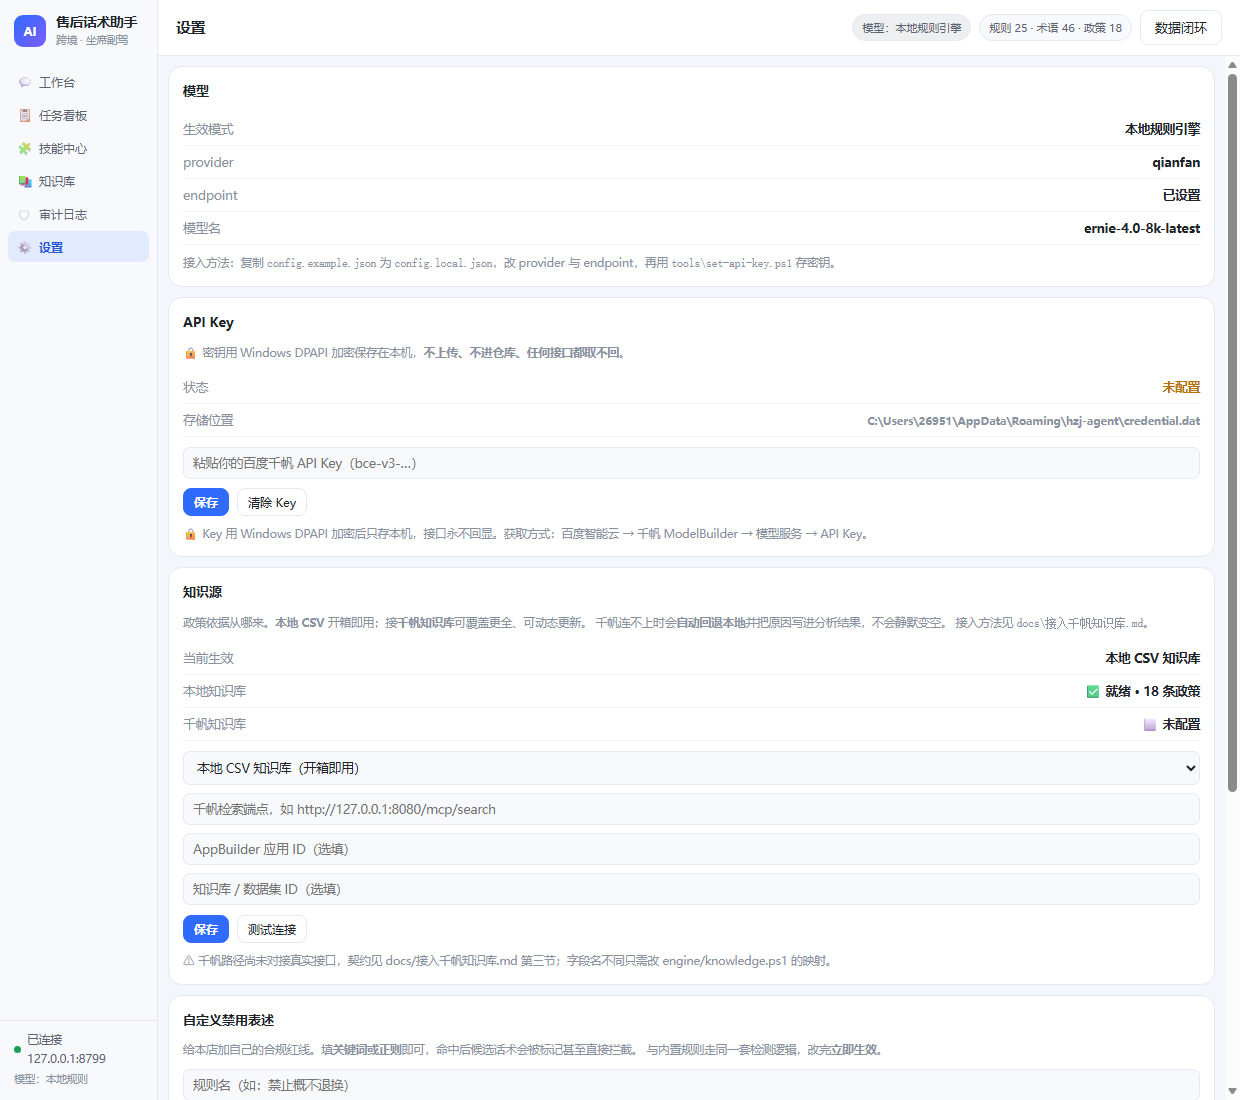
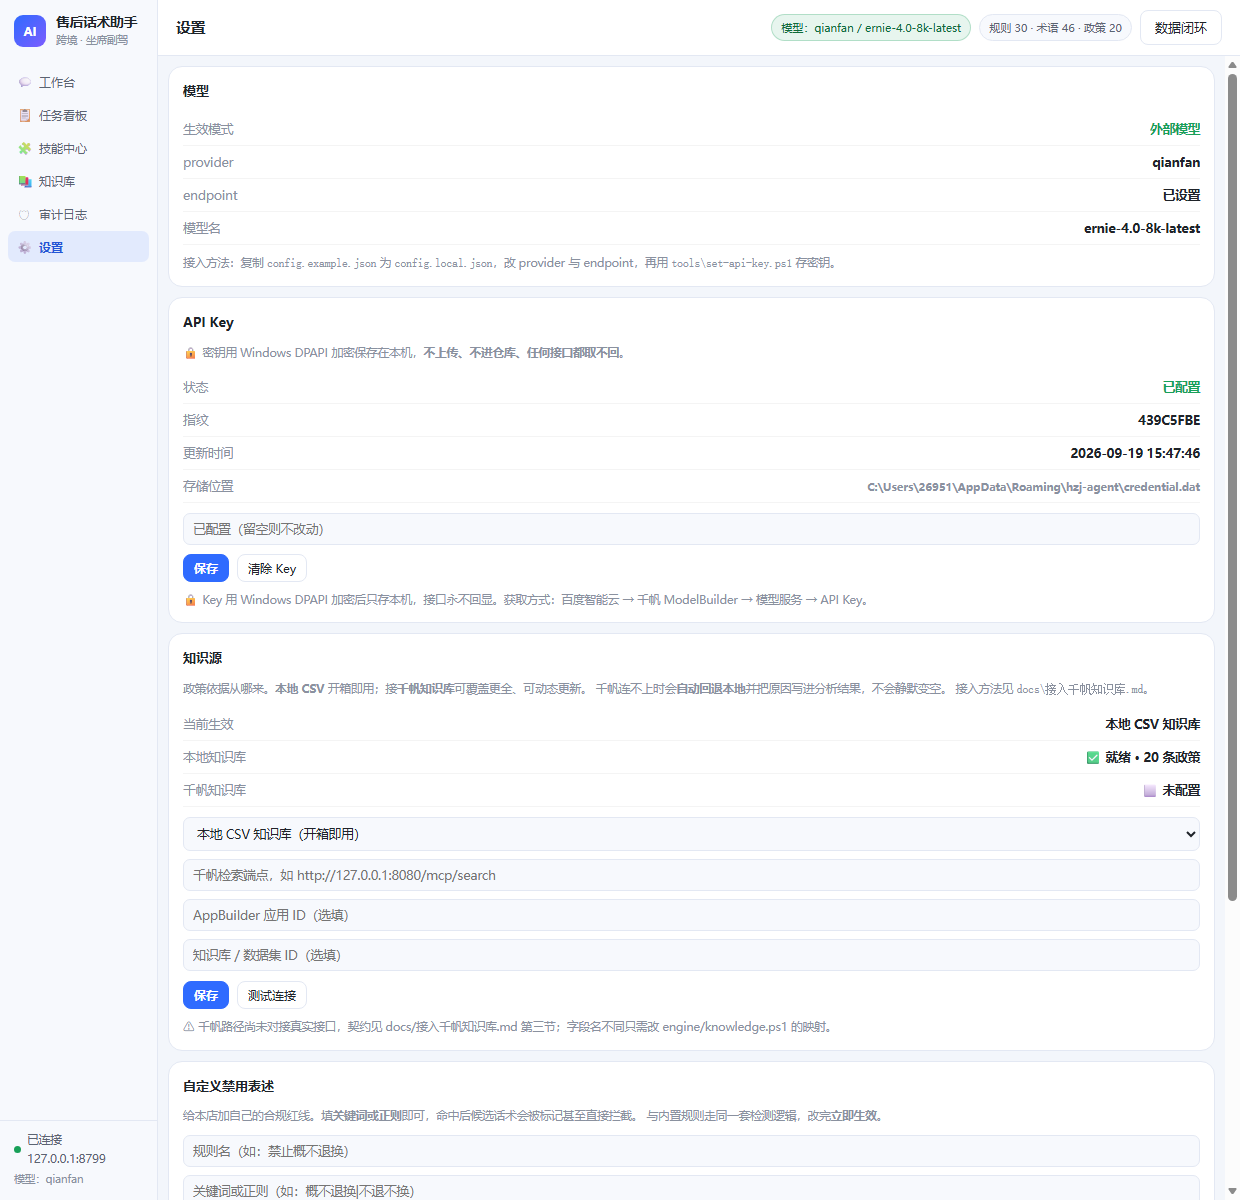
v0.23.0 ⑨ 并入参考项目的 AU / JP 政策内容；目标清单 9 项全部完成
来源：JiangLiuErm/hanzhengjie-cs-assistant 的 knowledge/policies/{AU,JP}.md
我方原有 EU/DE/FR/ES/IT/GB/US，缺澳大利亚与日本 —— 这两块是有实据的，
不是凑数：

新增政策（policy_index.csv 18 -> 20 条）
- AU-ACL-SCH2 澳大利亚消费者法 法定保证
  商品须质量合格/与描述相符/适合用途/耐用的法定保证不可被排除；
  **重大故障时买家可自行选择退款或更换，商家不得限定只能修理**
- JP-TOKUHO-11 日本特定商取引法（通信販売）
  通信销售无强制冷却期，但退货政策须在《特定商取引法に基づく表記》中
  明确记载且保持前后一致；单方面从严变更构成不当表示

新增合规规则（compliance_rules.csv 25 -> 30 条）
  R026 block AU|GB   不得声明排除法定保证（"概不保修""不适用ACL"）
  R027 block AU+EU   不得以"超过退货期"为由拒绝法定保证
  R028 revise AU     质量投诉须说明重大故障可自选退款或更换（obligation）
  R029 block JP      不得承诺无条件全额退款（不当表示风险）
  R030 revise JP     日本订单须给出精确处理时限（obligation）

顺带修掉一个真实的设计缺陷：obligation 的判断依据是硬编码的
- 原来 Invoke-ComplianceCheck 里用 switch (.rule_id) 硬编码 R018/R019 的
  "该说的说了没有"判断，想加新告知义务规则（ACL 选择权、日本时限）必须改代码
- 规则本来就是数据，判断依据也该是数据 → CSV 新增 fulfill_pattern 列，
  判断改为读该列；保留 switch 分支只为兼容没有该列的老 CSV

运行时测试又抓到一个真 bug：覆盖度判定硬编码 doc_id 前缀
- 判定"是否检索到国家级政策"用的是一串硬编码前缀
  （EU-/DE-/FR-/ES-/GB-/US-/IT-/KID-），新增 AU/JP 后忘了同步
- 后果：明明检索到 AU-ACL-SCH2，覆盖度却只算 partial ——
  而 partial 会限制话术能否给出政策表述，属于实质性错误
- 改为按 country 字段判断（平台规则的 country 是 ALL），以后加国家不用改代码
- 实测：AU/JP/DE 均为 sufficient，UNKNOWN 仍为 insufficient（保守不变）

测试覆盖
- compliance_unit_test.csv 26 -> 32 条，新增 6 条 AU/JP 样本：
  T027 AU 未说明选择权→revise R028 / T028 概不保修→reject R026 /
  T029 过退货期不能退→reject R027 / T030 無条件全額返金→reject R029 /
  T031 JP 敬语+精确时限→pass / T032 AU 已说明选择权→pass
- 自检：正则层一致 32/32，正向样本误杀 0

界面
- 国家下拉新增 🇦🇺 澳大利亚 / 🇯🇵 日本（网页版 + 扩展）
- Get-CountryZh 补两国中文名
[…]

diff --git a/111/web/app.js b/111/web/app.js
@@ -290,8 +290,8 @@ function renderKB() {
   const h = window.__HEALTH;
   const d = (h && h.data) || {};
   const rows = [
-    { name:'policy_kb', label:'各国政策库', meta:'18 条政策 · 含生效日期 · 检索强制时效过滤', ok:true },
-    { name:'compliance_rules', label:'合规规则库', meta:'25 条可执行正则 · violation / obligation 两层', ok:true },
+    { name:'policy_kb', label:'各国政策库', meta:'20 条政策 · 含生效日期 · 检索强制时效过滤', ok:true },
+    { name:'compliance_rules', label:'合规规则库', meta:'30 条可执行正则 · violation / obligation 两层', ok:true },
     { name:'glossary', label:'服装术语库', meta:'46 条 · 中英西德法', ok:true },
     { name:'intent_taxonomy', label:'意图标签库', meta:'14 类 · 多语言信号词', ok:true },
     { name:'case_kb', label:'优质案例库', meta:'种子阶段为空，需从试点商户沉淀', ok:false },

diff --git a/111/extension/content.js b/111/extension/content.js
@@ -1249,7 +1249,7 @@
 
     const row2 = h('div', { class: 'row', style: 'margin-top:8px' });
     const cs = h('select', { class: 'sel', style: 'flex:1;min-width:110px', onchange: (e) => { state.country = e.target.value; state.lastText = ''; } });
-    [['UNKNOWN', '国家：未知（保守）'], ['ES', '西班牙'], ['DE', '德国'], ['FR', '法国'], ['IT', '意大利'], ['US', '美国'], ['GB', '英国'], ['NL', '荷兰']]
+    [['UNKNOWN', '国家：未知（保守）'], ['ES', '西班牙'], ['DE', '德国'], ['FR', '法国'], ['IT', '意大利'], ['US', '美国'], ['GB', '英国'], ['NL', '荷兰'], ['AU', '澳大利亚'], ['JP', '日本']]
       .forEach(([v, t]) => { const o = h('option', { value: v, text: t }); if (v === state.country) o.selected = true; cs.appendChild(o); });
     row2.appendChild(cs);
 

diff --git a/111/web/index.html b/111/web/index.html
@@ -133,6 +133,8 @@
                     <option value="US">🇺🇸 美国</option>
                     <option value="GB">🇬🇧 英国</option>
                     <option value="NL">🇳🇱 荷兰</option>
+                    <option value="AU">🇦🇺 澳大利亚</option>
+                    <option value="JP">🇯🇵 日本</option>
                   </select>
                 </label>
                 <label>渠道平台
